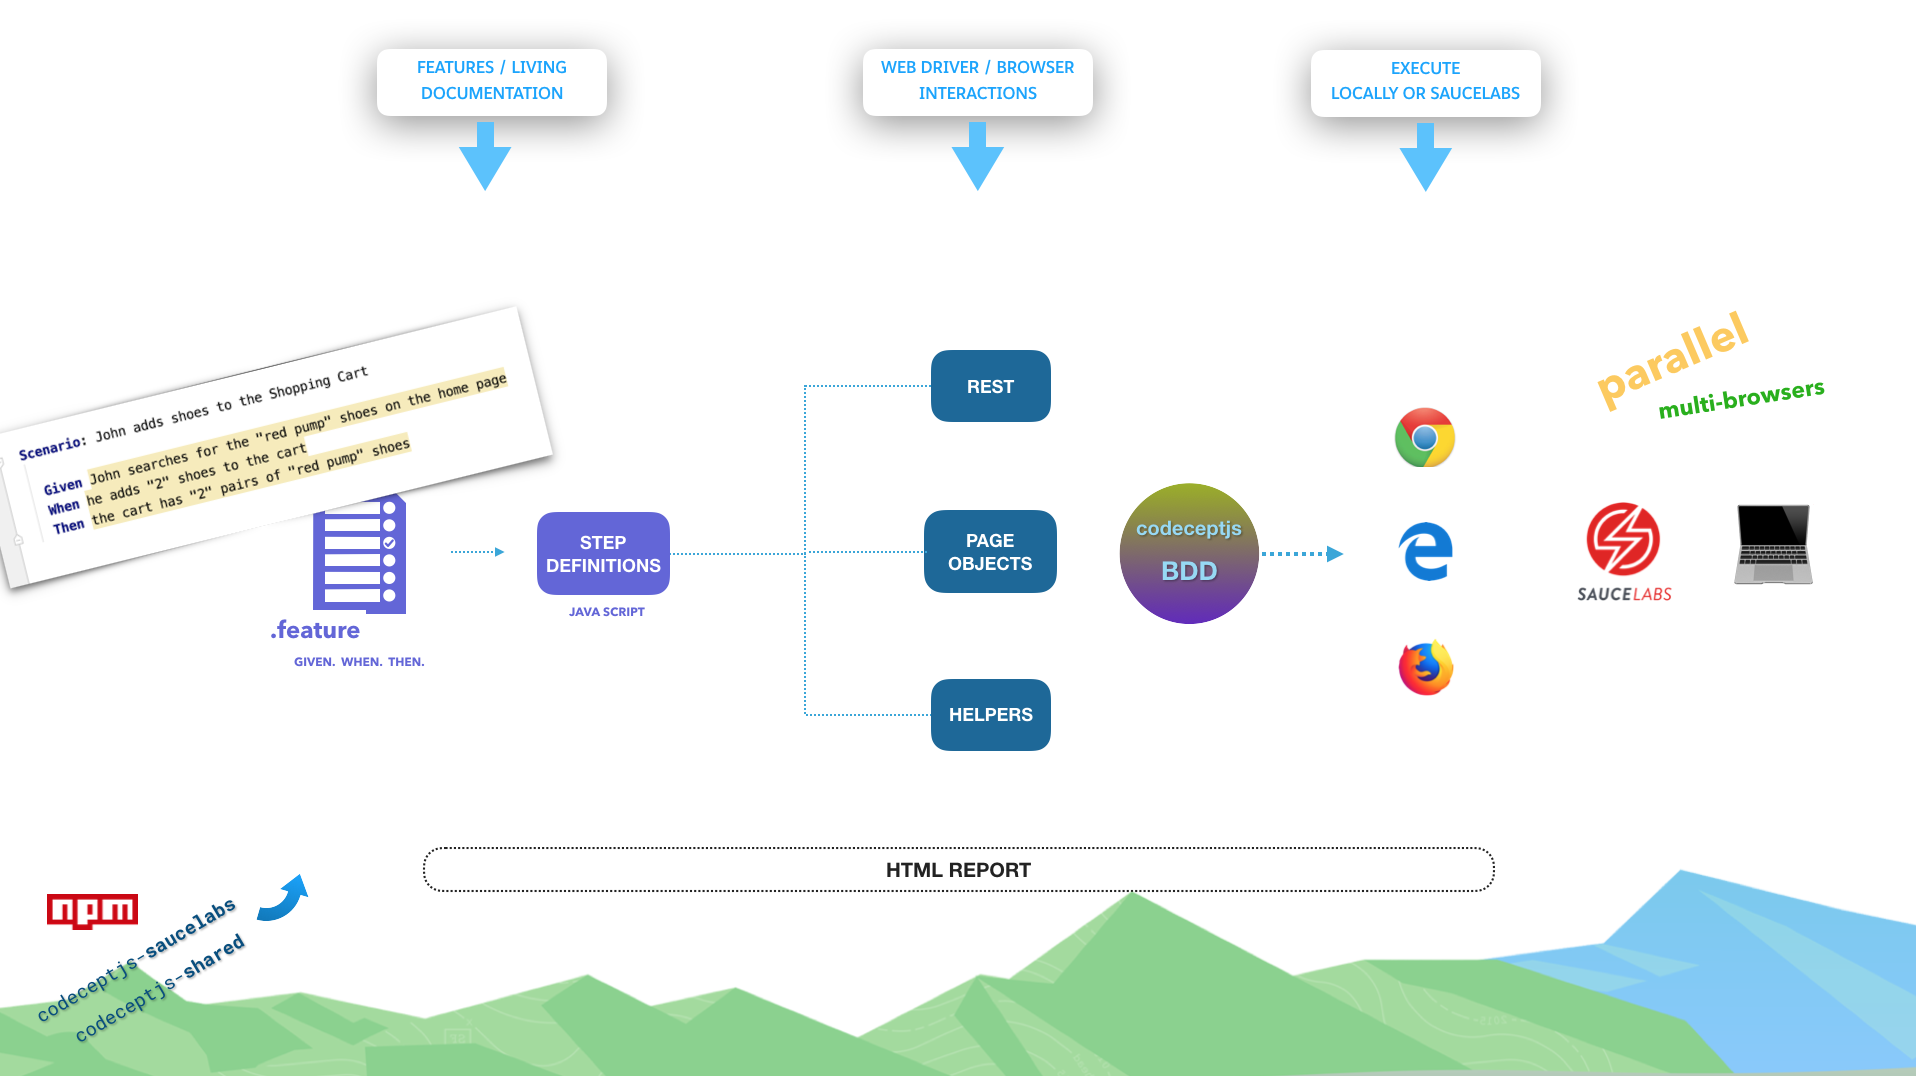
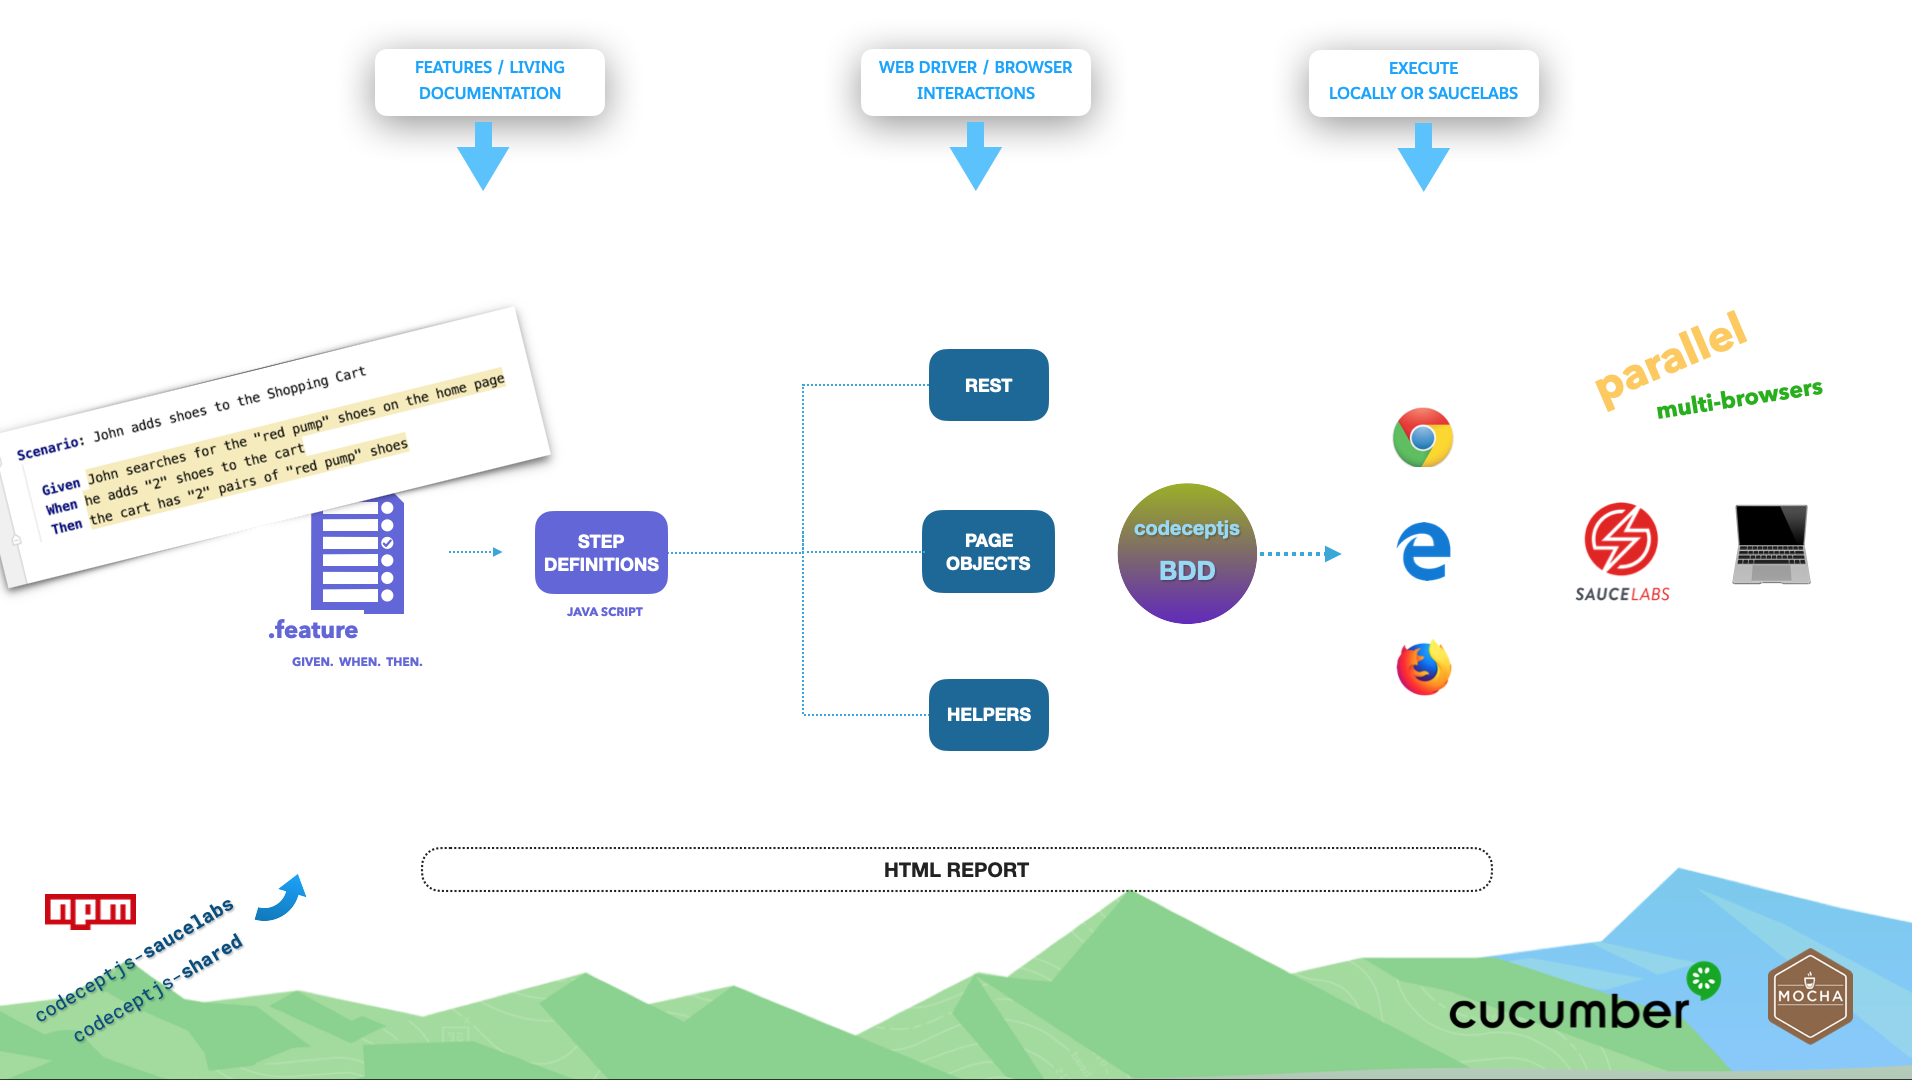
Docs: LWC, Web Components, Mocha, Cucumber & Page Objects (#42)
* lwc docs with Mocha

* lwc, mocha, page object docs

* lwc docs

* mocha

* home page

* architecture

diff --git a/documentation/src/pages/index.js b/documentation/src/pages/index.js
@@ -122,6 +122,45 @@ const renderAppCards = () => {
     },
     {
       size: 3,
+      title: 'Automate Web Components',
+      description:
+        'Simplified Locators for Web Components or Shadow Root elements. Codeceptjs-BDD automates your application built with Web Components or Salesforce LWC.',
+      secondLinkName: 'Selenium Example',
+      secondLink: '/05-01-salesforce-lwc/1-salesforce-lighting-web-components/',
+      firstLinkName: 'Playwright Example',
+      link:
+        '/05-01-salesforce-lwc/1-salesforce-lighting-web-components-playwright/',
+      image: require('../images/lwc-sf.png'),
+    },
+    {
+      size: 3,
+      title: 'Integration Tests',
+      description:
+        'One framework, mulitple solutions. Use Codeceptjs-BDD to automate both of your Integration tests and E2E Tests. Codecetpsj-BDD can run both, Mocha and Cucumber BDD, with the single common command.',
+      firstLinkName: 'Learn More',
+      link: '/03-acceptance-tests/01-integration-tests/1-integration-tests/',
+      image: require('../images/imocha.png'),
+    },
+    {
+      size: 3,
+      title: 'E2E BDD Tests',
+      description:
+        'Choose to write your E2E Tests either with Classical Mocha styled tests or modern Cucumber BDD Feature files acceptance tests. Codeceptjs-BDD supports both, mixed of, Mocha-style accetpance tests and Cucumber Fetures.',
+      firstLinkName: 'Learn More',
+      link: '/03-acceptance-tests/02-e2e-bdd-cucumber/1-feature/',
+      image: require('../images/e2e.png'),
+    },
+    {
+      size: 3,
+      title: 'Page Objects',
+      description:
+        'Modularize your UI Automation with Page Objects. Each page of your App can be represented as a Page Object Class, and Class can be extended as needed.',
+      firstLinkName: 'Learn More',
+      link: '/05-page-objects/1-page-objects/',
+      image: require('../images/po.png'),
+    },
+    {
+      size: 3,
       title: 'Quick Setup Wizard',
       description:
         'Quicky setup BDD framework for your App. Codecept-BDD implemetns the Interactive CLI to quickly setup the BDD Framework, integration with Sauce Labs and provides set of example Automated Feature files.',
@@ -257,8 +296,8 @@ const IndexPage = () => {
                 Codeceptjs BDD
               </Typography>
               <Typography variant="overline" display="block" gutterBottom>
-                CODECEPTJS BDD Framework integrated with Cucumber and Saucelabs
-                cloud.
+                CODECEPTJS BDD Framework integrated with Cucumber, Mocha and
+                Saucelabs cloud.
               </Typography>
             </Grid>
 

diff --git a/documentation/src/components/AppCard.js b/documentation/src/components/AppCard.js
@@ -1,19 +1,19 @@
-import React from "react"
-import Typography from "@material-ui/core/Typography"
-import { makeStyles } from "@material-ui/core/styles"
-import Card from "@material-ui/core/Card"
-import CardMedia from "@material-ui/core/CardMedia"
-import CardContent from "@material-ui/core/CardContent"
-import CardActions from "@material-ui/core/CardActions"
-import CardActionArea from "@material-ui/core/CardActionArea"
-import Button from "@material-ui/core/Button"
+import React from 'react';
+import Typography from '@material-ui/core/Typography';
+import { makeStyles } from '@material-ui/core/styles';
+import Card from '@material-ui/core/Card';
+import CardMedia from '@material-ui/core/CardMedia';
+import CardContent from '@material-ui/core/CardContent';
+import CardActions from '@material-ui/core/CardActions';
+import CardActionArea from '@material-ui/core/CardActionArea';
+import Button from '@material-ui/core/Button';
 
 const useStyles = makeStyles(theme => ({
   card: {
-    height: "100%",
-    width: "100%",
+    height: '100%',
+    width: '100%',
   },
-}))
+}));
 
 export default function AppCard({
   image,
@@ -29,9 +29,9 @@ export default function AppCard({
   mediaWidth,
   icon,
 }) {
-  const classes = useStyles()
-  const comp = component || "img"
-  const fLinkName = firstLinkName || "Learn More"
+  const classes = useStyles();
+  const comp = component || 'img';
+  const fLinkName = firstLinkName || 'Learn More';
 
   return (
     <Card className={classes.card}>
@@ -46,7 +46,7 @@ export default function AppCard({
           title={title}
         />
 
-        <CardContent>
+        <CardContent gutterBottom>
           <Typography gutterBottom variant="h5" component="h2">
             {title}
           </Typography>
@@ -56,7 +56,7 @@ export default function AppCard({
         </CardContent>
       </CardActionArea>
 
-      <CardActions disableSpacing>
+      <CardActions disableSpacing="true">
         {icon}
 
         <Button size="small" color="primary" target="_blank" href={link}>
@@ -66,12 +66,12 @@ export default function AppCard({
         <Button
           size="small"
           color="primary"
-          style={secondLink ? {} : { display: "none" }}
+          style={secondLink ? {} : { display: 'none' }}
           href={secondLink}
         >
           {secondLinkName}
         </Button>
       </CardActions>
     </Card>
-  )
+  );
 }

diff --git a/documentation/src/components/Header.js b/documentation/src/components/Header.js
@@ -151,15 +151,13 @@ function Header({ siteTitle, siteDescription }, props) {
             </GatsbyLink>
           </Tooltip>
 
-          <Hidden xsDown>
-            <Tooltip title="New Releases">
-              <GatsbyLink to="/CHANGELOG">
-                <IconButton aria-label="New Releases" color="inherit">
-                  <NewReleases style={{ fill: 'white' }} />
-                </IconButton>
-              </GatsbyLink>
-            </Tooltip>
-          </Hidden>
+          <Tooltip title="New Releases">
+            <GatsbyLink to="/CHANGELOG">
+              <IconButton aria-label="New Releases" color="inherit">
+                <NewReleases style={{ fill: 'white' }} />
+              </IconButton>
+            </GatsbyLink>
+          </Tooltip>
 
           <Tooltip title="Github Repository">
             <IconButton

diff --git a/documentation/src/global.scss b/documentation/src/global.scss
@@ -5,6 +5,10 @@ body {
   font-size: 100px;
 }
 
+.MuiCardActions-root {
+  float: bottom;
+}
+
 .language-text {
   background-color: #fff2cd !important;
   color: #4c483d !important;

diff --git a/documentation/docs/05-page-objects/1-page-objects.md b/documentation/docs/05-page-objects/1-page-objects.md
@@ -1,6 +1,6 @@
 ---
 title: Page Objects
-sub_title: Execute Features on Local Development Enviornment
+sub_title: Modularize your Automation with Page Object Classes
 parents: ['Page Objects']
 keywords: ['Page Objects', 'cucumber', 'bdd', 'gherkin', 'gwt']
 ---
